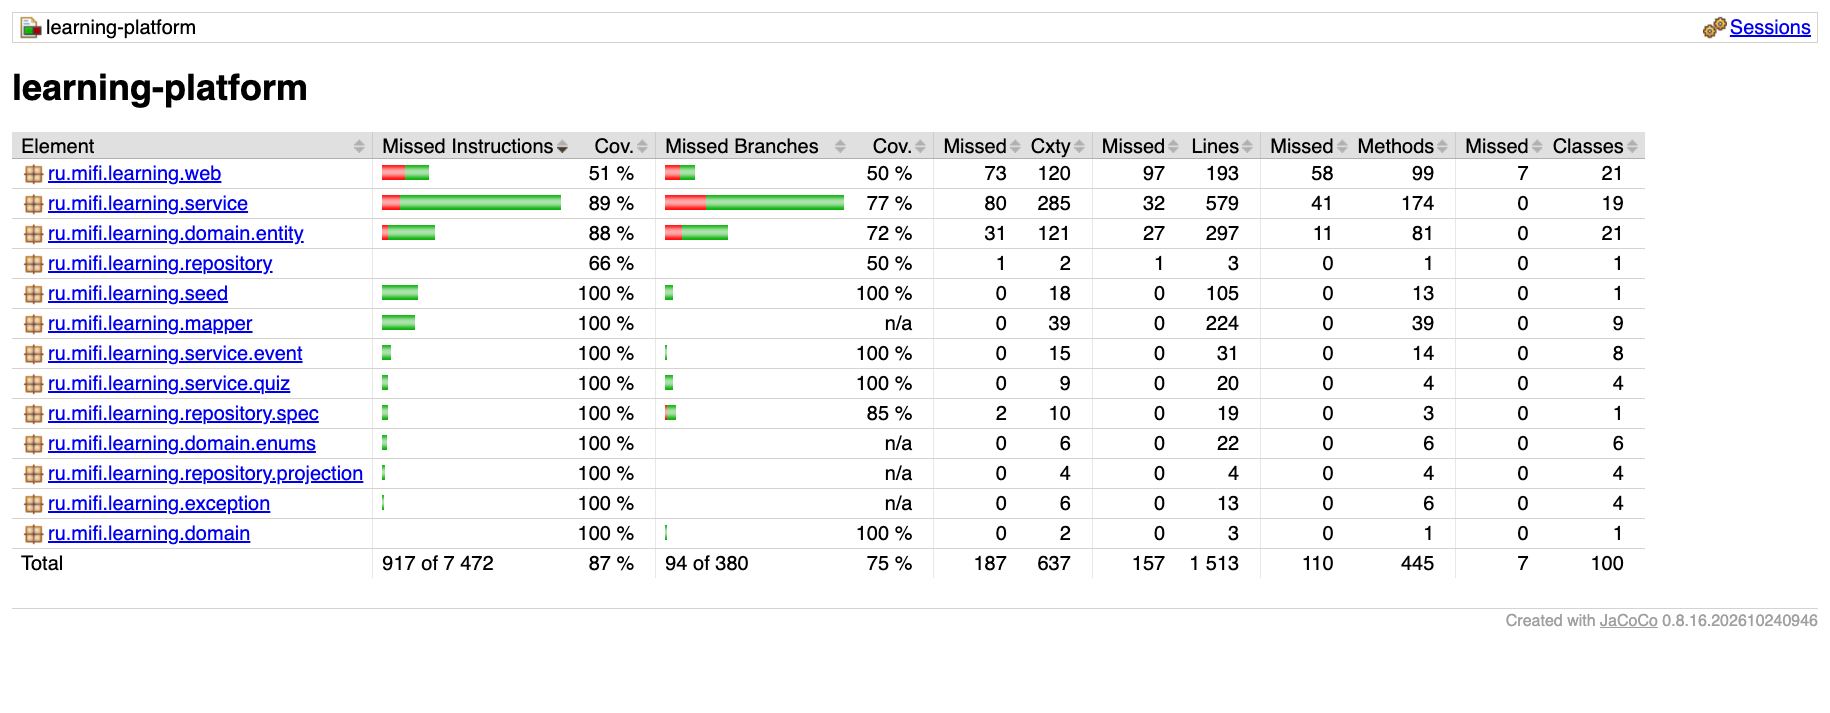
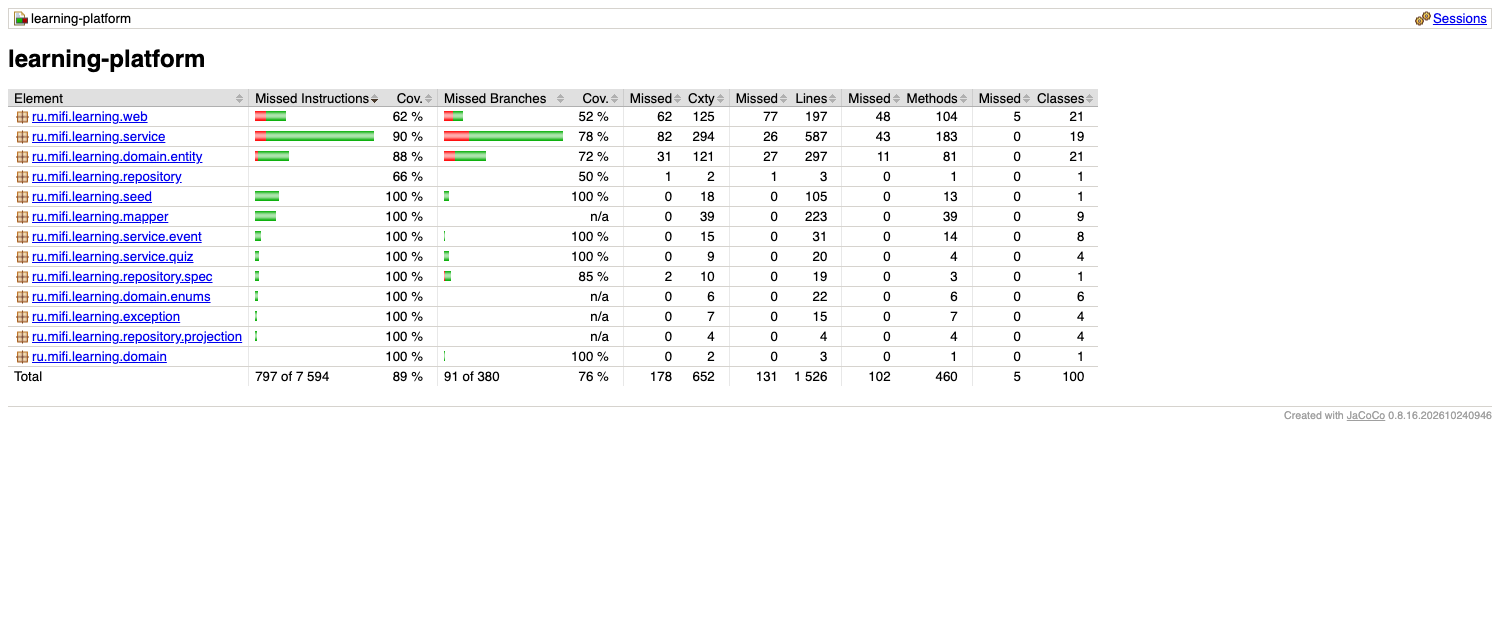
fix: validate review ratings, make Location URLs readable and add GitLab CI

diff --git a/src/test/java/ru/mifi/learning/web/HappyPathE2EIT.java b/src/test/java/ru/mifi/learning/web/HappyPathE2EIT.java
@@ -186,6 +186,88 @@ class HappyPathE2EIT extends AbstractIntegrationTest {
                 .asLong();
     }
 
+    @Test
+    @DisplayName("По Location доступны тег, запись, отметка конкретного урока и отдельный вопрос")
+    void createdResourcesAreReadable() {
+        var tag = created("/tags", Map.of("name", "hibernate"), "/tags/");
+        assertThat(get("/tags/" + tag.get("id")).get("name").asText()).isEqualTo("hibernate");
+        long course = data.publishedCourseWithLessons(2).getId();
+        long student = user("learner", "STUDENT");
+        var module = get("/courses/" + course + "/structure").at("/modules/0");
+        String enrollmentPath = "/courses/" + course + "/enrollments";
+        var enrollment = postAtLocation(enrollmentPath, Map.of("studentId", student), enrollmentPath + "/" + student);
+        assertThat(enrollment.get("courseId").asLong()).isEqualTo(course);
+        assertThat(enrollment.get("studentId").asLong()).isEqualTo(student);
+        for (var lesson : module.get("lessons")) {
+            String marks = "/lessons/" + lesson.get("id") + "/completions";
+            String location = marks + "/" + student;
+            assertThat(exchange(HttpMethod.GET, location, null, 404, null)
+                            .get("code")
+                            .asText())
+                    .isEqualTo("LESSON_COMPLETION_NOT_FOUND");
+            var mark = postAtLocation(marks, Map.of("studentId", student), location);
+            assertThat(mark.get("lessonId")).isEqualTo(lesson.get("id"));
+            assertThat(mark.get("studentId").asLong()).isEqualTo(student);
+            assertThat(post(marks, Map.of("studentId", student), 200)).isEqualTo(mark);
+        }
+        var quiz = created(
+                "/modules/" + module.get("id") + "/quiz", Map.of("title", "ORM", "questions", List.of()), "/quizzes/");
+        var question = Map.of(
+                "text",
+                "Какой тип ключа?",
+                "type",
+                "SINGLE_CHOICE",
+                "options",
+                List.of(Map.of("text", "PK", "correct", true), Map.of("text", "FK", "correct", false)));
+        var added = http.post()
+                .uri("/quizzes/" + quiz.get("id") + "/questions")
+                .contentType(MediaType.APPLICATION_JSON)
+                .body(question)
+                .retrieve()
+                .toEntity(JsonNode.class);
+        assertThat(added.getStatusCode().value()).isEqualTo(201);
+        var questionId = added.getBody().at("/questions/0/id");
+        var location = added.getHeaders().getLocation();
+        assertThat(location.getPath()).isEqualTo("/api/questions/" + questionId);
+        var view = get("/questions/" + questionId);
+        assertThat(view.get("id")).isEqualTo(questionId);
+        assertThat(view.get("text").asText()).isEqualTo(question.get("text"));
+        assertThat(view.at("/options/0").has("correct")).isFalse();
+    }
+
+    @Test
+    @DisplayName("Отзыв принимает целые рейтинги 1–5, ошибки создания и обновления сохраняют данные")
+    void reviewRatingContract() {
+        long course = data.publishedCourseWithLessons(1).getId();
+        long student = user("reviewer", "STUDENT");
+        post("/courses/" + course + "/enrollments", Map.of("studentId", student), 201);
+        var reviews = "/courses/" + course + "/reviews";
+        for (Object invalid : List.of(5.9, 2.5, "4", 0, 6)) {
+            exchange(HttpMethod.POST, reviews, Map.of("studentId", student, "rating", invalid), 400, null);
+        }
+        assertThat(get(reviews).get("totalElements").asInt()).isZero();
+        var review = created(reviews, Map.of("studentId", student, "rating", 1), "/reviews/");
+        String path = "/reviews/" + review.get("id");
+        assertThat(get(path).get("rating").asInt()).isOne();
+        exchange(HttpMethod.PUT, path, Map.of("rating", 5), 200, null);
+        for (Object invalid : List.of(5.9, 2.5, "4", 0, 6)) {
+            exchange(HttpMethod.PUT, path, Map.of("rating", invalid), 400, null);
+            assertThat(get(path).get("rating").asInt()).isEqualTo(5);
+        }
+    }
+
+    private JsonNode postAtLocation(String path, Object body, String expectedPath) {
+        var response = http.post()
+                .uri(path)
+                .contentType(MediaType.APPLICATION_JSON)
+                .body(body)
+                .retrieve()
+                .toEntity(JsonNode.class);
+        assertThat(response.getStatusCode().value()).isEqualTo(201);
+        assertThat(response.getHeaders().getLocation().getPath()).isEqualTo("/api" + expectedPath);
+        return get(expectedPath);
+    }
+
     private JsonNode get(String path) {
         return exchange(HttpMethod.GET, path, null, 200, null);
     }
@@ -201,13 +283,17 @@ class HappyPathE2EIT extends AbstractIntegrationTest {
     private JsonNode exchange(HttpMethod method, String path, Object body, int status, String location) {
         var request = http.method(method).uri(path);
         if (body != null) request.contentType(MediaType.APPLICATION_JSON).body(body);
-        var response = request.retrieve().toEntity(JsonNode.class);
+        var response = request.retrieve()
+                .onStatus(code -> code.isError(), (req, res) -> {})
+                .toEntity(JsonNode.class);
         assertThat(response.getStatusCode().value()).as("%s %s", method, path).isEqualTo(status);
         var json = response.getBody();
         assertThat(json).isNotNull();
-        if (location != null)
+        if (location != null) {
             assertThat(response.getHeaders().getLocation().getPath())
                     .isEqualTo("/api" + location + json.get("id").asLong());
+            assertThat(get(location + json.get("id")).get("id")).isEqualTo(json.get("id"));
+        }
         return json;
     }
 }

diff --git a/src/main/java/ru/mifi/learning/mapper/QuizMapper.java b/src/main/java/ru/mifi/learning/mapper/QuizMapper.java
@@ -3,6 +3,7 @@ package ru.mifi.learning.mapper;
 import java.util.Comparator;
 import org.springframework.stereotype.Component;
 import ru.mifi.learning.domain.entity.AnswerOption;
+import ru.mifi.learning.domain.entity.Question;
 import ru.mifi.learning.domain.entity.Quiz;
 import ru.mifi.learning.domain.entity.QuizSubmission;
 import ru.mifi.learning.dto.quiz.AnswerResult;
@@ -50,16 +51,18 @@ public class QuizMapper {
                 quiz.getTimeLimitMinutes(),
                 quiz.getPassingScorePercent(),
                 quiz.getMaxAttempts(),
-                quiz.getQuestions().stream()
-                        .map(item -> new StudentQuestionView(
-                                item.getId(),
-                                item.getText(),
-                                item.getType(),
-                                item.getPoints(),
-                                item.getOrderIndex(),
-                                item.getOptions().stream()
-                                        .map(option -> new StudentOptionView(option.getId(), option.getText()))
-                                        .toList()))
+                quiz.getQuestions().stream().map(this::studentQuestion).toList());
+    }
+
+    public StudentQuestionView studentQuestion(Question item) {
+        return new StudentQuestionView(
+                item.getId(),
+                item.getText(),
+                item.getType(),
+                item.getPoints(),
+                item.getOrderIndex(),
+                item.getOptions().stream()
+                        .map(option -> new StudentOptionView(option.getId(), option.getText()))
                         .toList());
     }
 

diff --git a/src/main/java/ru/mifi/learning/web/ProgressController.java b/src/main/java/ru/mifi/learning/web/ProgressController.java
@@ -36,10 +36,17 @@ public class ProgressController {
         var result = service.mark(id, request);
         var body = result.progress();
         return result.created()
-                ? ResponseEntity.created(
-                                URI.create("/api/courses/" + body.courseId() + "/progress/" + body.studentId()))
+                ? ResponseEntity.created(URI.create("/api/lessons/" + id + "/completions/" + body.studentId()))
                         .body(body)
                 : ResponseEntity.ok(body);
+    }
+
+    @GetMapping("/lessons/{id}/completions/{studentId}")
+    @Operation(summary = "Получить отметку студента о прохождении урока")
+    public LessonProgressResponse completion(
+            @PathVariable @Positive(message = "Значение должно быть положительным") long id,
+            @PathVariable @Positive(message = "Значение должно быть положительным") long studentId) {
+        return service.getCompletion(id, studentId);
     }
 
     @GetMapping("/courses/{id}/progress/{studentId}")

diff --git a/src/main/java/ru/mifi/learning/web/QuizController.java b/src/main/java/ru/mifi/learning/web/QuizController.java
@@ -19,6 +19,7 @@ import org.springframework.web.bind.annotation.ResponseStatus;
 import org.springframework.web.bind.annotation.RestController;
 import ru.mifi.learning.dto.quiz.CreateQuizRequest;
 import ru.mifi.learning.dto.quiz.QuestionRequest;
+import ru.mifi.learning.dto.quiz.StudentQuestionView;
 import ru.mifi.learning.dto.quiz.StudentQuizView;
 import ru.mifi.learning.dto.quiz.TeacherQuizView;
 import ru.mifi.learning.dto.quiz.UpdateQuizRequest;
@@ -84,6 +85,13 @@ public class QuizController {
         return ResponseEntity.created(
                         URI.create("/api/questions/" + q.questions().getLast().id()))
                 .body(q);
+    }
+
+    @GetMapping("/questions/{id}")
+    @Operation(summary = "Получить вопрос с вариантами ответа")
+    public StudentQuestionView question(
+            @PathVariable @Positive(message = "Значение должно быть положительным") long id) {
+        return service.question(id);
     }
 
     @PutMapping("/questions/{id}")

diff --git a/src/main/java/ru/mifi/learning/repository/LessonProgressRepository.java b/src/main/java/ru/mifi/learning/repository/LessonProgressRepository.java
@@ -1,9 +1,20 @@
 package ru.mifi.learning.repository;
 
+import java.util.Optional;
 import org.springframework.data.jpa.repository.JpaRepository;
+import org.springframework.data.jpa.repository.Query;
 import ru.mifi.learning.domain.entity.LessonProgress;
 import ru.mifi.learning.domain.entity.LessonProgressId;
+import ru.mifi.learning.dto.enrollment.LessonProgressResponse;
 
 public interface LessonProgressRepository extends JpaRepository<LessonProgress, LessonProgressId> {
     long countByEnrollmentId(Long enrollmentId);
+
+    @Query("""
+            select new ru.mifi.learning.dto.enrollment.LessonProgressResponse(
+              p.lesson.id, e.student.id, e.course.id, p.completedAt)
+            from LessonProgress p join p.enrollment e
+            where p.lesson.id = :lessonId and e.student.id = :studentId
+            """)
+    Optional<LessonProgressResponse> findCompletion(long lessonId, long studentId);
 }

diff --git a/src/main/java/ru/mifi/learning/exception/NotFoundException.java b/src/main/java/ru/mifi/learning/exception/NotFoundException.java
@@ -13,6 +13,12 @@ public class NotFoundException extends ApplicationException {
                 "Студент с идентификатором %d не записан на курс с идентификатором %d".formatted(studentId, courseId));
     }
 
+    public static NotFoundException completion(long lessonId, long studentId) {
+        return new NotFoundException(
+                "LESSON_COMPLETION_NOT_FOUND",
+                "Отметка о прохождении урока %d студентом %d не найдена".formatted(lessonId, studentId));
+    }
+
     public static NotFoundException of(String entity, long id) {
         String code = entity.replaceAll("([a-z])([A-Z])", "$1_$2").toUpperCase(Locale.ROOT) + "_NOT_FOUND";
         return new NotFoundException(code, "Объект " + entity + " с идентификатором " + id + " не найден");

diff --git a/src/main/java/ru/mifi/learning/service/QuizService.java b/src/main/java/ru/mifi/learning/service/QuizService.java
@@ -11,6 +11,7 @@ import ru.mifi.learning.domain.enums.QuestionType;
 import ru.mifi.learning.dto.quiz.CreateQuizRequest;
 import ru.mifi.learning.dto.quiz.OptionRequest;
 import ru.mifi.learning.dto.quiz.QuestionRequest;
+import ru.mifi.learning.dto.quiz.StudentQuestionView;
 import ru.mifi.learning.dto.quiz.StudentQuizView;
 import ru.mifi.learning.dto.quiz.TeacherQuizView;
 import ru.mifi.learning.dto.quiz.UpdateQuizRequest;
@@ -112,6 +113,10 @@ public class QuizService {
     public void deleteQuestion(long id) {
         var quiz = parentForEdit(id);
         quiz.removeQuestion(questions.getReferenceById(id));
+    }
+
+    public StudentQuestionView question(long id) {
+        return mapper.studentQuestion(questions.findById(id).orElseThrow(() -> NotFoundException.of("Question", id)));
     }
 
     private Quiz parentForEdit(long id) {

diff --git a/src/main/java/ru/mifi/learning/web/EnrollmentController.java b/src/main/java/ru/mifi/learning/web/EnrollmentController.java
@@ -51,6 +51,14 @@ public class EnrollmentController {
         return service.students(id, pageable);
     }
 
+    @GetMapping("/courses/{id}/enrollments/{studentId}")
+    @Operation(summary = "Получить запись студента на курс")
+    public EnrollmentResponse get(
+            @PathVariable @Positive(message = "Значение должно быть положительным") long id,
+            @PathVariable @Positive(message = "Значение должно быть положительным") long studentId) {
+        return service.get(id, studentId);
+    }
+
     @DeleteMapping("/courses/{id}/enrollments/{studentId}")
     @Operation(summary = "Отписать студента")
     @ResponseStatus(HttpStatus.NO_CONTENT)

diff --git a/src/main/java/ru/mifi/learning/dto/review/RatingDeserializer.java b/src/main/java/ru/mifi/learning/dto/review/RatingDeserializer.java
@@ -1,0 +1,17 @@
+package ru.mifi.learning.dto.review;
+
+import com.fasterxml.jackson.core.JsonParser;
+import com.fasterxml.jackson.core.JsonToken;
+import com.fasterxml.jackson.databind.DeserializationContext;
+import com.fasterxml.jackson.databind.JsonDeserializer;
+import java.io.IOException;
+
+final class RatingDeserializer extends JsonDeserializer<Integer> {
+    @Override
+    public Integer deserialize(JsonParser parser, DeserializationContext context) throws IOException {
+        if (!parser.hasToken(JsonToken.VALUE_NUMBER_INT)) {
+            return context.reportInputMismatch(Integer.class, "Рейтинг должен быть целым числом");
+        }
+        return parser.getIntValue();
+    }
+}

diff --git a/src/main/java/ru/mifi/learning/dto/review/CreateReviewRequest.java b/src/main/java/ru/mifi/learning/dto/review/CreateReviewRequest.java
@@ -1,5 +1,6 @@
 package ru.mifi.learning.dto.review;
 
+import com.fasterxml.jackson.databind.annotation.JsonDeserialize;
 import jakarta.validation.constraints.Max;
 import jakarta.validation.constraints.Min;
 import jakarta.validation.constraints.NotNull;
@@ -12,6 +13,7 @@ public record CreateReviewRequest(
         @NotNull(message = "Обязательное поле")
         @Min(value = 1, message = "Минимальная оценка — 1")
         @Max(value = 5, message = "Максимальная оценка — 5")
+        @JsonDeserialize(using = RatingDeserializer.class)
         Integer rating,
 
         String comment) {}

diff --git a/src/main/java/ru/mifi/learning/dto/review/UpdateReviewRequest.java b/src/main/java/ru/mifi/learning/dto/review/UpdateReviewRequest.java
@@ -1,5 +1,6 @@
 package ru.mifi.learning.dto.review;
 
+import com.fasterxml.jackson.databind.annotation.JsonDeserialize;
 import jakarta.validation.constraints.Max;
 import jakarta.validation.constraints.Min;
 import jakarta.validation.constraints.NotNull;
@@ -8,6 +9,7 @@ public record UpdateReviewRequest(
         @NotNull(message = "Обязательное поле")
         @Min(value = 1, message = "Минимальная оценка — 1")
         @Max(value = 5, message = "Максимальная оценка — 5")
+        @JsonDeserialize(using = RatingDeserializer.class)
         Integer rating,
 
         String comment) {}

diff --git a/src/main/java/ru/mifi/learning/service/EnrollmentService.java b/src/main/java/ru/mifi/learning/service/EnrollmentService.java
@@ -71,6 +71,12 @@ public class EnrollmentService {
         enrollments.delete(enrollment);
     }
 
+    public EnrollmentResponse get(long courseId, long studentId) {
+        return mapper.enrollment(enrollments
+                .findByStudentIdAndCourseId(studentId, courseId)
+                .orElseThrow(() -> NotFoundException.enrollment(courseId, studentId)));
+    }
+
     public PageResponse<EnrolledStudentResponse> students(long id, Pageable pageable) {
         var page = enrollments.findWithStudentByCourseId(id, pageable);
         if (page.isEmpty() && !courses.existsById(id)) {
